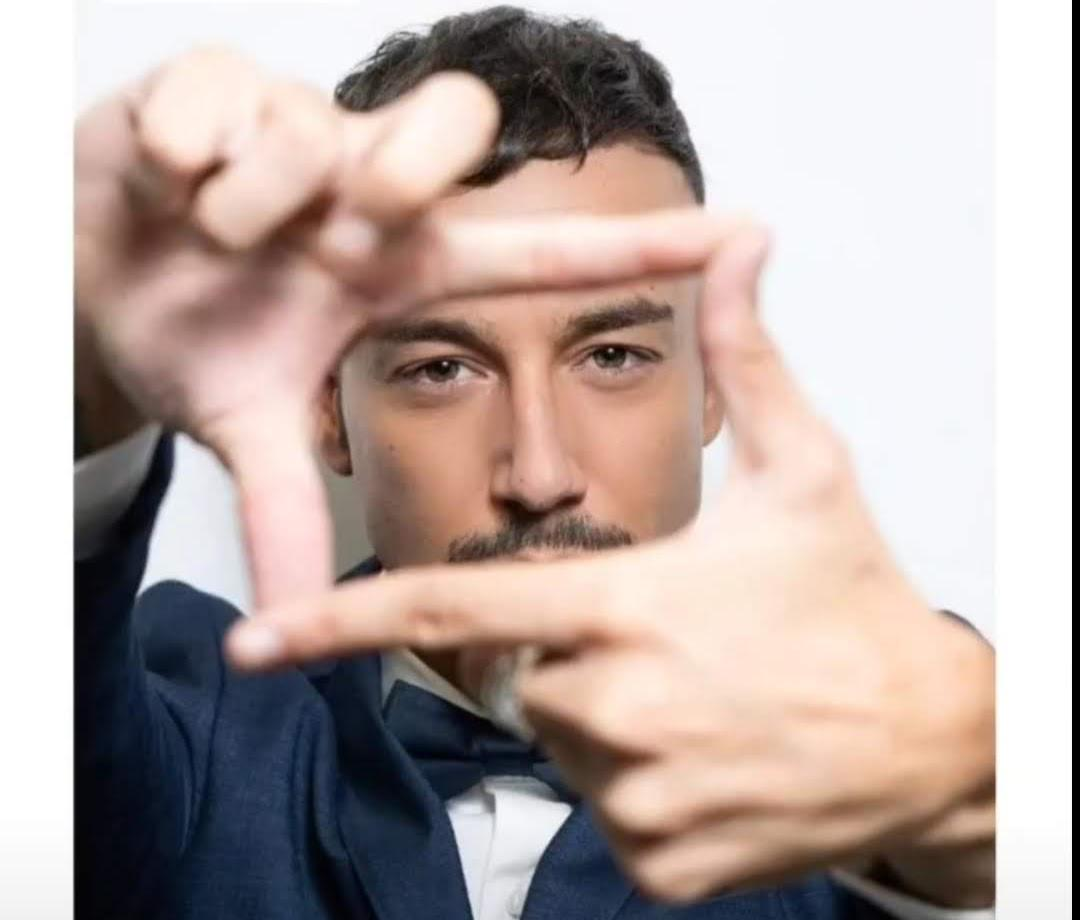
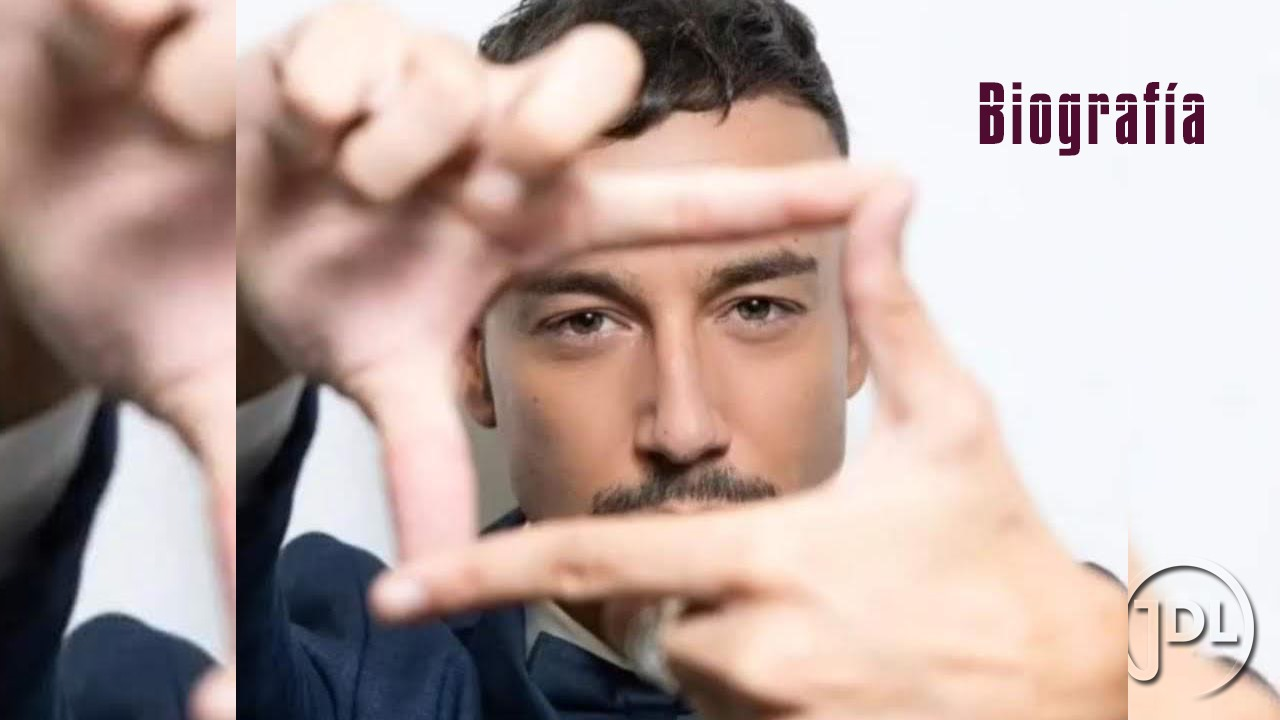
mvp

diff --git a/web/src/pages/bio-page.jsx b/web/src/pages/bio-page.jsx
@@ -1,17 +1,44 @@
-// import homeGuessPicture from '../assets/BioPicture.jpg'
+import { Link } from 'react-router-dom';
+import bioPicture from '../assets/BioPicture.jpg'
 
 function BioPage() {
     return (
         <>
-        
-        <div className="w-full border-2 border-red-600 h-[25vh]">
-            La foto
-            {/* <img src={homeGuessPicture} alt="" /> */}
-        </div>
-        <div className="w-full border-2 border-red-600 h-[50vh]">
-            Biografía
-            (TEXTO)
-        </div>
+            <div className='max-h-screen overflow-hidden'>
+                <div className='relative top-5 left-5 z-10  '>
+                    <Link
+                        to={'/welcome'}
+                        className='bg-white pb-1 p-3 rounded-lg  '
+                    >
+                        <i class=" fa fa-home fa-2x"
+                        ></i>
+                    </Link>
+                </div>
+                <div className="">
+                    <img
+                        className='w-screen relative top-[-15vh]'
+                        src={bioPicture} alt="" />
+                </div>
+                <div className='relative top-[-90vh] left-80 max-w-[55vw] max-h-[100vh] bg-[rgba(255,255,255,0.25)]'>
+                    <p
+                        className='overflow-scroll overflow-x-hidden max-h-[60vh]'
+                    >JADEL
+                        Javier Luis Delgado, más conocido como Jadel. Cantante, compositor y actor de 28 años natural de Santa Cruz de Tenerife,
+                        conocido a raíz de ganar el programa de Antena 3 "Número 1" en 2012 ha desarrollado su carrera artística en los últimos años en el campo del pop y ritmos latinos. Previamente participó en otro programa de televisión "Factor X" en 2008 y posteriormente colaboró en programas como “Tu cara me suena” o “Dando la Nota”.
+                        Representó a España en los Premios Estrella Music Awards Miami, ganando el festival en el que participaron más de 30 artistas en representación de sus países en el año 2010.
+                        Ha compartido escenario con importantes artistas internacionales como Franco de Vita, Miguel Bosé, Natalia Jiménez, Luis Fonsi, Rasel o David Bustamante, entre otros. Su canción “Qué más da” alcanzó el número 1 de ventas a nivel mundial en iTunes. La colaboración con la canción "Viven" junto a Rasel se mantuvo durante 28 semanas en los primeros puestos de la listas más influyentes, con más de dos millones de visitas en YouTube y un gran éxito en ventas, al mismo tiempo se convierte en uno de los artistas más seguidos en las redes sociales. En el 2014 protagoniza "Jesucristo Superstar" dirigido por el afamado director español Jaime Azpilicueta, en 1975 esta obra la estrenó Camilo Sesto con el mismo director. En 2015 protagonizó otra gran obra musical "EVITA" en el papel del Che Guevara, Jadel se estrena en el mundo del teatro con estas maravillosas obras de Andrew Lloyd Webber.
+
+
+                        2008 Concursante Factor X
+                        2010 Ganador Premio Estrella Music Awards (Miami)
+                        2011 "Dentro del alma" (Álbum)
+                        2012 Ganador Numero 1 (Antena 3)
+                        2013 "Viven" single junto a Rasel. Premio mejor canción del verano y record de permanencia en la lista 40 Principales.
+                        2014 "Dile que tu" single. Nominado a "Mejor canción" en los Premios Neox Fan Awards.
+                        2015 "Llévame" (Álbum)
+                        Actualmente protagonista de "Evita, el musical" en Nuevo Teatro Alcalá (Madrid)</p>
+                </div>
+            </div>
         </>
     )
 }

diff --git a/web/src/pages/welcome-page.jsx b/web/src/pages/welcome-page.jsx
@@ -14,7 +14,7 @@ function WelcomePage() {
                         <li
                             className='bg-[#510b31] rounded-2xl border-2 text-center border-[#2e071d] px-4 py-2 min-w-32 hover:bg-[#2e071d] shadow-2xl'>
                             <NavLink
-                                to="/biografia"
+                                to="/bio"
                                 className="text-white hover:text-gray-300"
                             >
                                 Biografía
@@ -50,7 +50,7 @@ function WelcomePage() {
                         <li
                             className='bg-[hsl(327,76%,18%)] rounded-2xl text-center border-2 border-[#2e071d] px-4 py-2 min-w-32 hover:bg-[#2e071d] shadow-2xl'>
                             <NavLink
-                                to="/tienda"
+                                to="/store"
                                 className="text-white hover:text-gray-300"
                             >
                                 Tienda
@@ -59,10 +59,19 @@ function WelcomePage() {
                         <li
                             className='bg-[hsl(327,76%,18%)] rounded-2xl text-center border-2 border-[#2e071d] px-4 py-2 min-w-32 hover:bg-[#2e071d] shadow-2xl'>
                             <NavLink
-                                to="/noticias"
+                                to="/news"
                                 className="text-white hover:text-gray-300"
                             >
                                 Noticias
+                            </NavLink>
+                        </li>
+                        <li
+                            className='text-center ml-20 mt-[-4vh]'>
+                            <NavLink
+                                to="/"
+                                className="text-blue-600 hover:text-blue-400 underline text-xs"
+                            >
+                                Cerrar Sesion
                             </NavLink>
                         </li>
                     </ul>

diff --git a/web/src/app.jsx b/web/src/app.jsx
@@ -6,6 +6,9 @@ import NewsPage from "./pages/news-page"
 import AgendaPage from "./pages/agenda-page"
 import LoginPage from "./pages/login-page"
 import RegisterPage from "./pages/register-page"
+import ChatPage from "./pages/chat-page"
+import MultimediaPage from "./pages/multimedia-page"
+import StorePage from "./pages/store-page"
 
 function App() {
 
@@ -14,11 +17,14 @@ function App() {
       <Routes>
         <Route path="/" element={< HomePage />} />
         <Route path="/register" element={<RegisterPage />} />
-        <Route path="/welcome" element={<WelcomePage />} />
         <Route path="/login" element={<LoginPage />} />
+        <Route path="/welcome" element={<WelcomePage />} />
         <Route path="/bio" element={<BioPage />} />
-        <Route path="/news" element={<NewsPage />} />
         <Route path="/agenda" element={<AgendaPage />} />
+        <Route path="/chat" element={<ChatPage />} />
+        <Route path="/multimedia" element={<MultimediaPage />} />
+        <Route path="/store" element={<StorePage />} />
+        <Route path="/news" element={<NewsPage />} />
       </Routes>
     </>
   )

diff --git a/web/src/pages/news-page.jsx b/web/src/pages/news-page.jsx
@@ -1,17 +1,19 @@
+import newsPicture from '../assets/NewsPicture.jpg'
+import Soon from '../components/soon';
 
 function NewsPage() {
     return (
         <>
-    
-        <div className="w-[25vw] border-2 border-red-600 h-[15vh]">
-            Noticias
-        </div>
-        <div className="w-full border-2 border-red-600 h-[25vh]">
-            Última Noticia
-        </div>
-        <div className="w-full border-2 border-red-600 h-[50vh]">
-            Penúltima Noticia
-        </div>
+            <div className="max-h-screen overflow-hidden">
+                <div>
+                    <img 
+                    className="max-w-screen"
+                    src={newsPicture} alt="" />
+                </div>
+                <div className="relative ml-2 z-10 top-[-110vh]">
+                    <Soon className="text-white"/>
+                </div>
+            </div>
         </>
     )
 }

diff --git a/web/src/components/soon.jsx b/web/src/components/soon.jsx
@@ -1,0 +1,26 @@
+import { Link } from "react-router-dom";
+
+function Soon({className = ''}) {
+    return (
+        <>
+            <div className="flex h-screen gap-32">
+                <div className="pl-2 pt-2">
+                    <Link
+                        to={'/welcome'}
+                        className='bg-white pt-3 px-2 pb-1 self-start rounded-lg  '
+                    >
+                        <i className="fa fa-home fa-2x"
+                        ></i>
+                    </Link>
+                </div>
+                <div className="self-center">
+                    <h1 className={`text-9xl ${className}`}>
+                        Proximamente...
+                    </h1>
+                </div>
+            </div>
+        </>
+    );
+};
+
+export default Soon;

diff --git a/web/src/pages/agenda-page.jsx b/web/src/pages/agenda-page.jsx
@@ -1,9 +1,18 @@
+import Soon from "../components/soon";
+import agendaPicture from "../assets/AgendaPicture.jpg"
 
 function AgendaPage() {
     return (
         <>
-            <div className="w-[25vw] border-2 border-red-600 h-[15vh]">
-
+            <div className="max-h-screen overflow-hidden">
+                <div>
+                    <img 
+                    className="max-w-screen"
+                    src={agendaPicture} alt="" />
+                </div>
+                <div className="relative ml-2 z-10 top-[-110vh]">
+                    <Soon className="text-white"/>
+                </div>
             </div>
         </>
     )

diff --git a/web/src/pages/multimedia-page.jsx b/web/src/pages/multimedia-page.jsx
@@ -1,0 +1,11 @@
+import Soon from "../components/soon";
+
+function MultimediaPage() {
+    return(
+        <>
+            <Soon />
+        </>
+    );
+};
+
+export default MultimediaPage;

diff --git a/web/src/pages/store-page.jsx b/web/src/pages/store-page.jsx
@@ -1,0 +1,11 @@
+import Soon from "../components/soon";
+
+function StorePage() {
+    return (
+        <>
+            <Soon />
+        </>
+    );
+};
+
+export default StorePage;

diff --git a/web/src/pages/chat-page.jsx b/web/src/pages/chat-page.jsx
@@ -1,0 +1,11 @@
+import Soon from "../components/soon";
+
+function ChatPage() {
+    return (
+        <>
+            <Soon />
+        </>
+    );
+};
+
+export default ChatPage;
